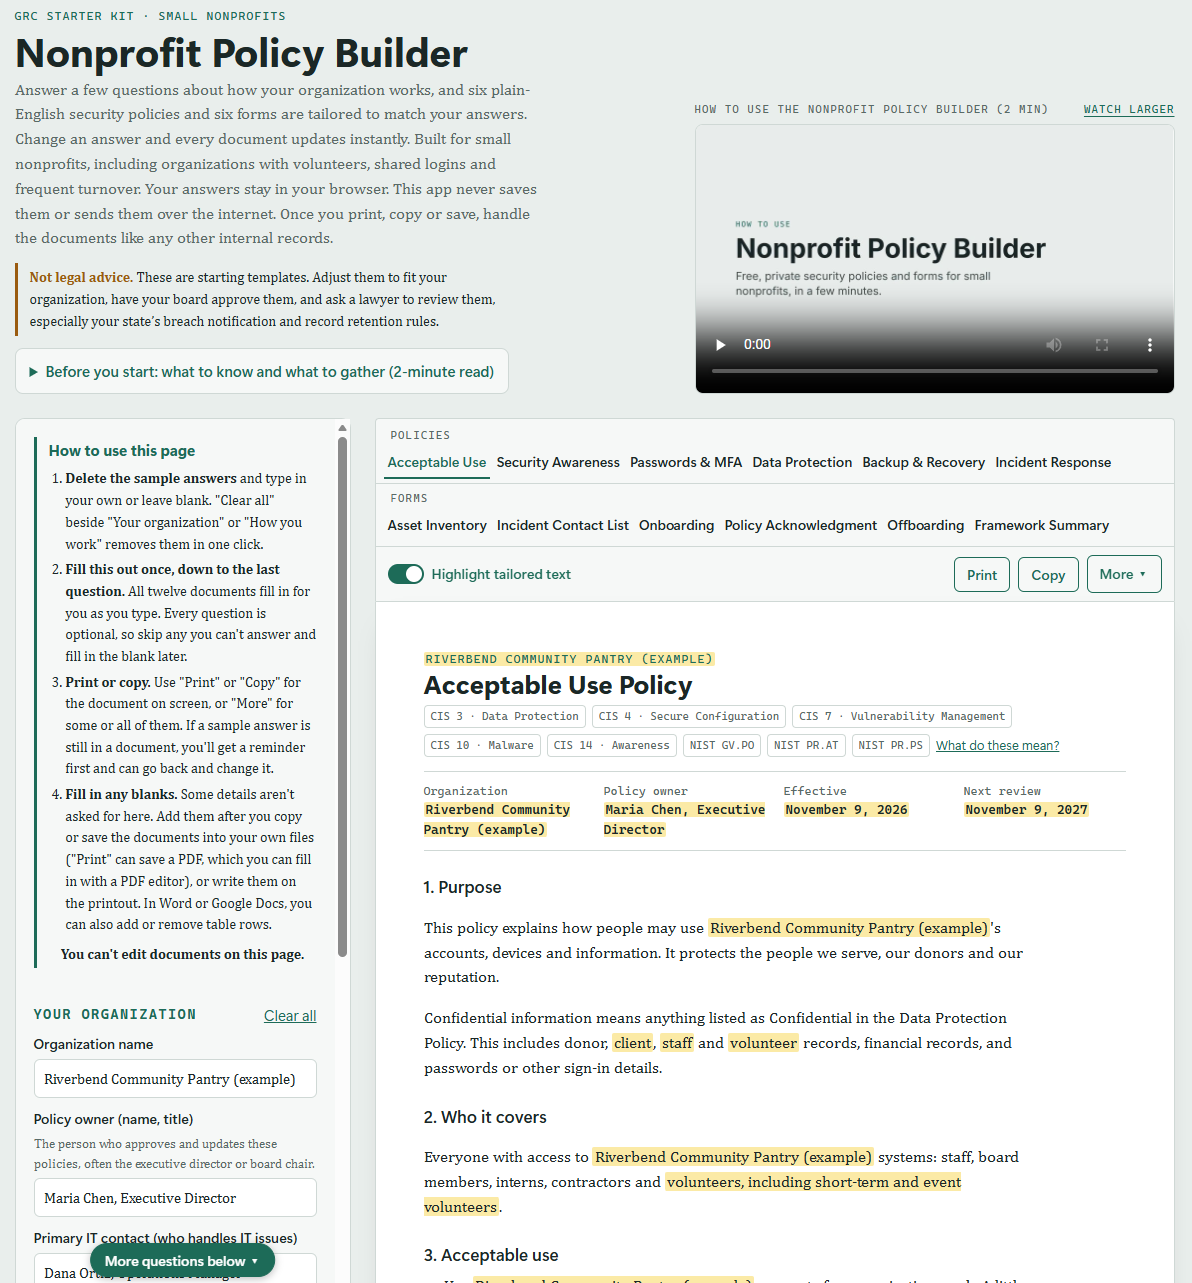
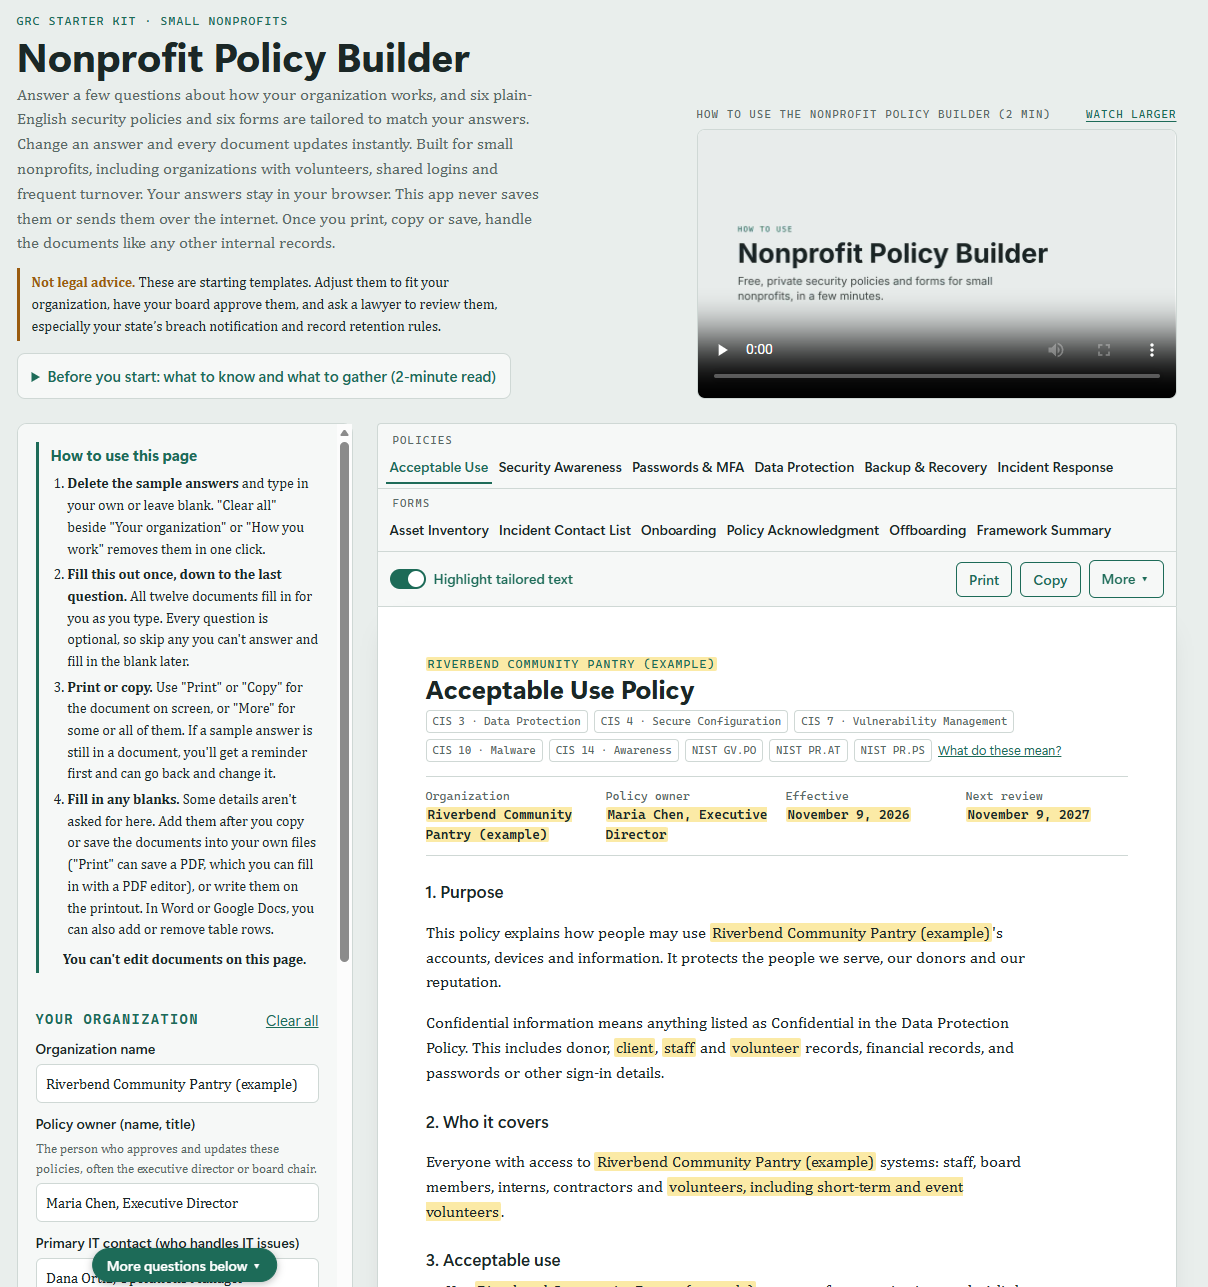
Update the README screenshot and center it
Replace assets/app-screenshot.png with a new hand-taken screenshot and
center it and its caption in the README.

diff --git a/CLAUDE.md b/CLAUDE.md
@@ -66,7 +66,7 @@ The footer in `index.html` shows "Version 1.0.0 · Template wording last reviewe
 - `HANDOFF.md` records where the work stands. Update it with every change.
 - `.github/ISSUE_TEMPLATE/problem-report.md` is the form GitHub shows for "New issue" (what happened, expected, where, browser and device, app version, website or downloaded copy). It asks for no real answers or documents and sends security problems to `SECURITY.md`. Issues must also be switched on in the repository's settings once it exists. Not deployed.
 - `coming-soon/` (project root, added by the user November 8, 2026) is a one-page "Coming soon" placeholder: `index.html` (inline CSS only, system fonts, light and dark colors, `noindex`, no scripts or outside resources) and a `_headers` with the same security headers as `app/`. It also has copies of the app's `favicon.ico`, `favicon.svg` and `apple-touch-icon.png`, linked from its `<head>` (November 8, 2026), so keep them in step if the icon changes. It is not part of the app; it can be deployed on its own until the app goes live. Listed in the README's file list.
-- `assets/` (project root) holds `app-screenshot.png`, the one screenshot of the app that the README shows near the top (1192×1283, the first screen and the start of the sample Acceptable Use Policy, light mode, sample answers). The user takes it by hand (November 9, 2026, replacing the earlier headless Chrome screenshots `app-full-page.png` and `app-preview.png`). Retake it when the page's look changes noticeably. Tracked by Git, not deployed.
+- `assets/` (project root) holds `app-screenshot.png`, the one screenshot of the app that the README shows centered near the top (1208×1287, the first screen and the start of the sample Acceptable Use Policy, light mode, sample answers). The user takes it by hand (last retaken November 9, 2026; the first hand-taken one, also November 9, replaced the earlier headless Chrome screenshots `app-full-page.png` and `app-preview.png`). Retake it when the page's look changes noticeably. Tracked by Git, not deployed.
 - `.gitignore` keeps `documents/` and `HANDOFF.md` out of Git, so they stay on this computer and are never uploaded. Back up `documents/` separately.
 - `CLAUDE.md` (this file) is public: the user published it in the repository on November 8, 2026, for transparency about how Claude Code is used in the project, and the README links to it. Every change to it goes public with the next push, so never write a personal name, email address, phone number, local file path, password, or anything else private here; put such notes in `HANDOFF.md` instead. Public files name the owner only as SBecraft. The main branch is `main`.
 - Testing materials and project notes are kept privately in `documents/` (not in the repo).

diff --git a/README.md b/README.md
@@ -6,9 +6,11 @@
 
 > **Not legal advice.** These are starting templates for discussion. Have your board approve them, and ask a lawyer to check your state's breach notification and record retention rules.
 
-<img src="assets/app-screenshot.png" width="640" alt="The Nonprofit Policy Builder: the questionnaire on the left, the walkthrough video at the top right, and the tailored Acceptable Use Policy with its tailored text highlighted">
+<p align="center">
+  <img src="assets/app-screenshot.png" width="640" alt="The Nonprofit Policy Builder: the questionnaire on the left, the walkthrough video at the top right, and the tailored Acceptable Use Policy with its tailored text highlighted">
+</p>
 
-*The app with its sample answers. Click the picture to see the whole page.*
+<p align="center"><em>The app with its sample answers. Click the picture to see the whole page.</em></p>
 
 ## Why it exists
 
